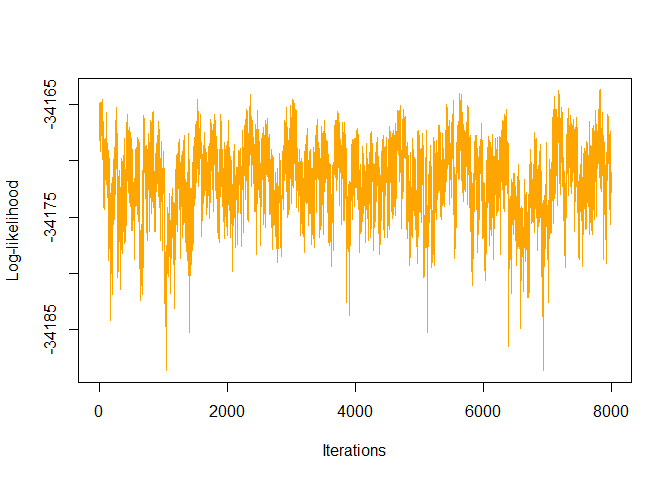
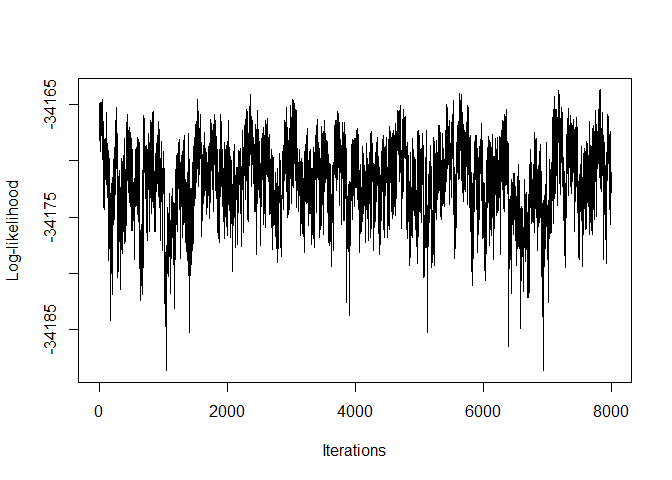
Update examples of implementation of RGM.

Changed region(s): [[0.125, 0.1875, 0.9375, 0.6562]]

diff --git a/README.md b/README.md
@@ -46,7 +46,7 @@ You can install RGM R package from GitHub with:
     devtools::install_github("bitansa/RGM")
 ```
 
-Once the RGM package is installed load the library in the R workspace.
+Once the RGM package is installed load the library in the R work-space.
 
 ``` r
 
@@ -58,19 +58,19 @@ Once the RGM package is installed load the library in the R workspace.
 We offer a succinct demonstration of the capabilities of the RGM
 function within the package, showcasing its effectiveness in computing
 causal interactions among response variables and between responses and
-instrumental variables using simulated datasets. Subsequently, we
+instrumental variables using simulated data sets. Subsequently, we
 provide an example of how NetworkMotif can be applied, utilizing a
 specified network structure and Gamma_Pst acquired from executing the
 RGM function.
 
 ``` r
 
-# ModeL: Y = AY + BX + E
+# Model: Y = AY + BX + E
 
 # Set seed
 set.seed(9154)
 
-# Number of datapoints
+# Number of data points
 n = 10000
 
 # Number of response variables and number of instrument variables
@@ -187,9 +187,9 @@ for (i in 1:p) {
  }
 
 
-# Apply RGM on S_XX, Beta and Sigma_Hat for Threshold Prior
+# Apply RGM on S_XX, Beta and Sigma_Hat for Spike and Slab Prior
 Output3 = RGM(S_XX = S_XX, Beta = Beta, Sigma_Hat = Sigma_Hat,
-           d = c(2, 1, 1, 1, 1), n = 10000, prior = "Threshold")
+           d = c(2, 1, 1, 1, 1), n = 10000, prior = "Spike and Slab")
 ```
 
 We get the estimated causal interaction matrix between response
@@ -213,11 +213,11 @@ Output2$A_Est
 #> [5,]  0.001466929  0.10033516 -0.0072119898 -0.002885797 0.00000000
 Output3$A_Est
 #>              [,1]        [,2]         [,3]          [,4]       [,5]
-#> [1,]  0.000000000 -0.08875307  0.041318383  0.0006178063 0.09498591
-#> [2,]  0.111592403  0.00000000 -0.112605078  0.0985936916 0.13648932
-#> [3,]  0.015711571 -0.09625968  0.000000000  0.0108548068 0.11935587
-#> [4,] -0.004945287 -0.11303896  0.001301969  0.0000000000 0.01414149
-#> [5,] -0.001858740  0.13134284  0.012553030 -0.0010936366 0.00000000
+#> [1,]  0.000000000 -0.08916909  0.040323704  0.0004407186 0.09569033
+#> [2,]  0.111429981  0.00000000 -0.113294802  0.0967872414 0.13633727
+#> [3,]  0.016102229 -0.09532651  0.000000000  0.0103318146 0.11898981
+#> [4,] -0.006334381 -0.11169543  0.002591126  0.0000000000 0.01366949
+#> [5,] -0.002296943  0.13176051  0.012056218 -0.0010876040 0.00000000
 ```
 
 We get the estimated graph structure between the response variables in
@@ -241,11 +241,11 @@ Output2$zA_Est
 #> [5,]    0    1    0    0    0
 Output3$zA_Est
 #>      [,1] [,2] [,3] [,4] [,5]
-#> [1,]    0    1    1    0    1
+#> [1,]    0    1    0    0    1
 #> [2,]    1    0    1    1    1
-#> [3,]    1    1    0    1    1
-#> [4,]    1    1    0    0    1
-#> [5,]    0    1    1    0    0
+#> [3,]    0    1    0    0    1
+#> [4,]    0    1    0    0    0
+#> [5,]    0    1    0    0    0
 ```
 
 We get the estimated causal interaction matrix between the response and
@@ -269,11 +269,11 @@ Output2$B_Est
 #> [5,] 0.0000000 0.0000 0.0000000 0.0000000 0.0000000 1.002271
 Output3$B_Est
 #>           [,1]     [,2]      [,3]      [,4]      [,5]      [,6]
-#> [1,] 0.9901485 1.004256 0.0000000 0.0000000 0.0000000 0.0000000
-#> [2,] 0.0000000 0.000000 0.9928381 0.0000000 0.0000000 0.0000000
-#> [3,] 0.0000000 0.000000 0.0000000 0.9985674 0.0000000 0.0000000
-#> [4,] 0.0000000 0.000000 0.0000000 0.0000000 0.9975018 0.0000000
-#> [5,] 0.0000000 0.000000 0.0000000 0.0000000 0.0000000 0.9963616
+#> [1,] 0.9902686 1.004035 0.0000000 0.0000000 0.0000000 0.0000000
+#> [2,] 0.0000000 0.000000 0.9928588 0.0000000 0.0000000 0.0000000
+#> [3,] 0.0000000 0.000000 0.0000000 0.9988565 0.0000000 0.0000000
+#> [4,] 0.0000000 0.000000 0.0000000 0.0000000 0.9970532 0.0000000
+#> [5,] 0.0000000 0.000000 0.0000000 0.0000000 0.0000000 0.9965687
 ```
 
 We get the estimated graph structure between the response and the
@@ -308,19 +308,19 @@ We can plot the log-likelihoods from the outputs in the following way:
 
 ``` r
 
-plot(Output1$LL_Pst, type = 'l', xlab = "Iterations", ylab = "Log-likelihood", col = 'orange')
+plot(Output1$LL_Pst, type = 'l', xlab = "Iterations", ylab = "Log-likelihood")
 ```
 
 <img src="man/figures/README-unnamed-chunk-10-1.png" width="100%" />
 
 ``` r
-plot(Output2$LL_Pst, type = 'l', xlab = "Iterations", ylab = "Log-likelihood", col = 'purple')
+plot(Output2$LL_Pst, type = 'l', xlab = "Iterations", ylab = "Log-likelihood")
 ```
 
 <img src="man/figures/README-unnamed-chunk-10-2.png" width="100%" />
 
 ``` r
-plot(Output3$LL_Pst, type = 'l', xlab = "Iterations", ylab = "Log-likelihood", col = 'cyan')
+plot(Output3$LL_Pst, type = 'l', xlab = "Iterations", ylab = "Log-likelihood")
 ```
 
 <img src="man/figures/README-unnamed-chunk-10-3.png" width="100%" />
@@ -346,7 +346,7 @@ NetworkMotif(Gamma = Gamma, Gamma_Pst = Gamma_Pst1)
 NetworkMotif(Gamma = Gamma, Gamma_Pst = Gamma_Pst2)
 #> [1] 0.006
 NetworkMotif(Gamma = Gamma, Gamma_Pst = Gamma_Pst3)
-#> [1] 0
+#> [1] 0.003875
 ```
 
 ## References
